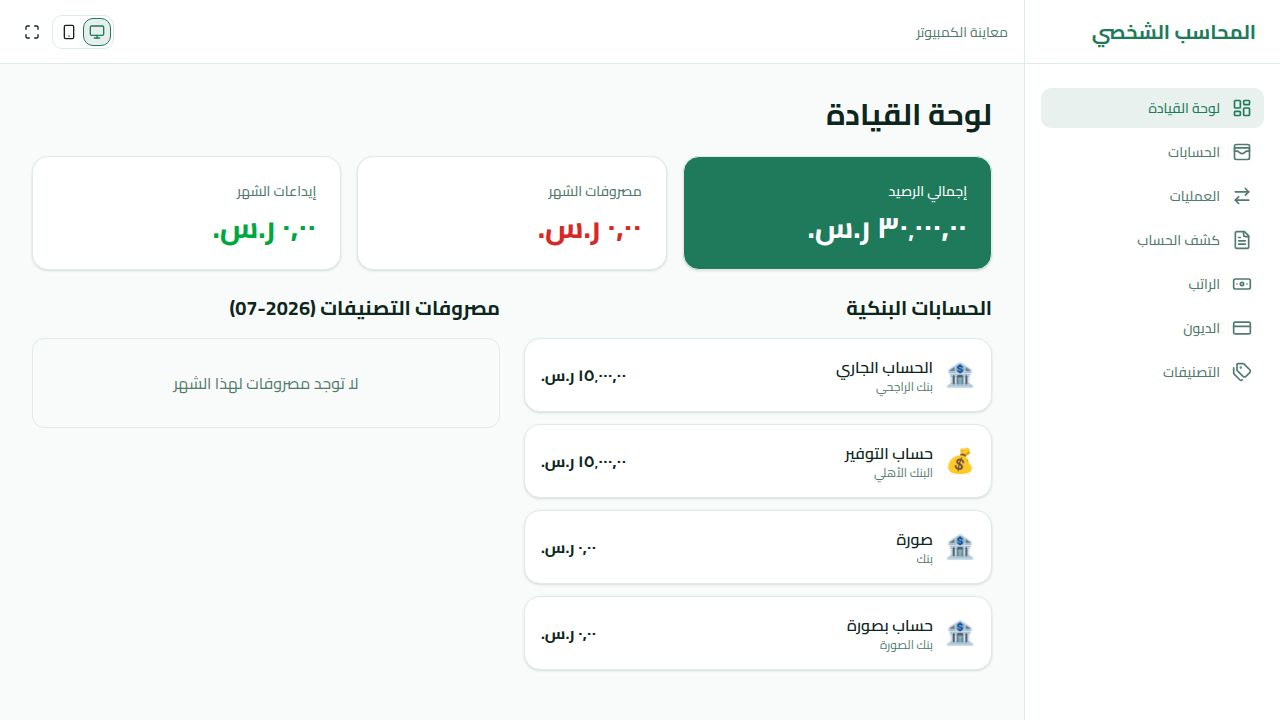
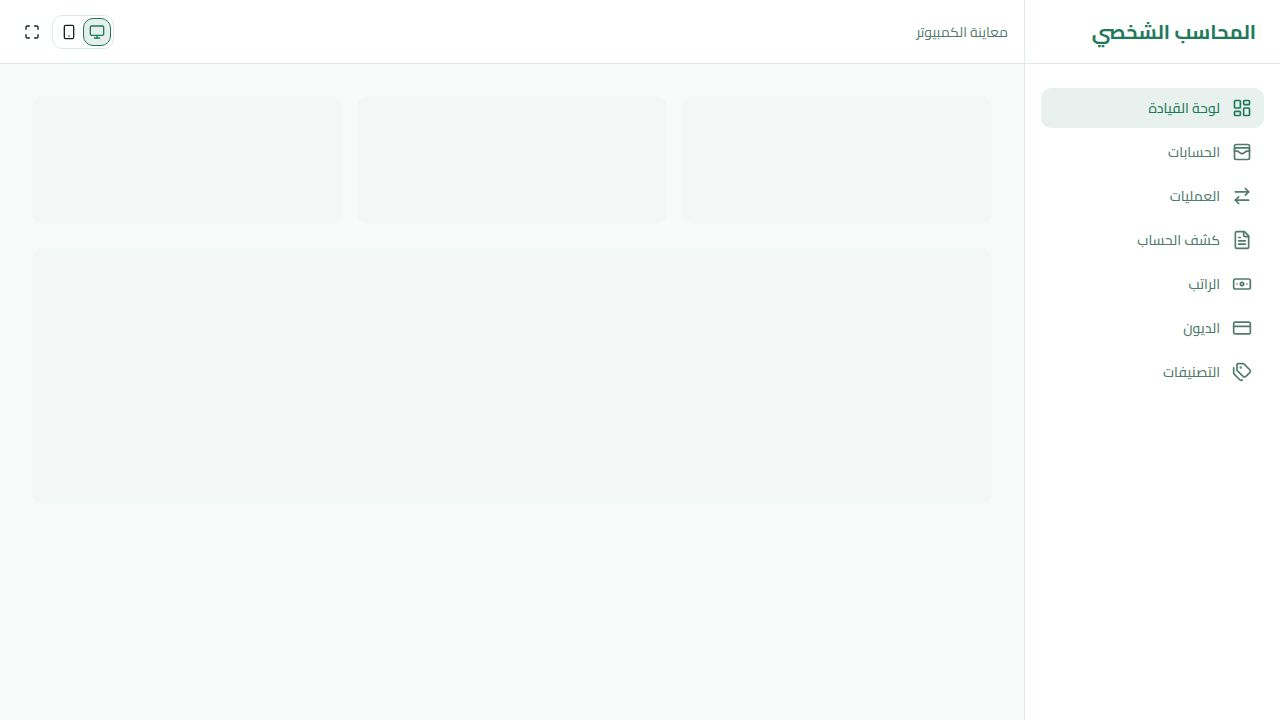
Add ability to assign transfers to specific subcategories
Introduces a new optional `toSubcategoryId` field to the `MoveSubcategoryFunds` API and updates the transaction move logic to support re-tagging transferred funds to a different subcategory in the destination account. Also, filters out zero-balance subcategories from account breakdowns. Includes a guard for the root `package.json` to prevent it from being overwritten by artifact configurations.

Replit-Commit-Author: Agent
Replit-Commit-Session-Id: 5a4efc87-1ddf-483c-b9f9-13ae1d215cd8
Replit-Commit-Checkpoint-Type: full_checkpoint
Replit-Commit-Event-Id: 9575431a-17fe-44cb-ae4b-7024b2cec024
Replit-Commit-Screenshot-Url: https://storage.googleapis.com/screenshot-production-us-central1/fc0cddd7-b1d6-4240-8798-7869c10aa3e8/5a4efc87-1ddf-483c-b9f9-13ae1d215cd8/UZ3GicT
Replit-Helium-Checkpoint-Created: true

diff --git a/artifacts/accounting-app/src/pages/account-detail.tsx b/artifacts/accounting-app/src/pages/account-detail.tsx
@@ -2,6 +2,7 @@ import { Link } from "wouter";
 import {
   useGetAccountBreakdown,
   useListAccounts,
+  useListCategories,
   useMoveSubcategoryFunds,
   getListAccountsQueryKey,
   getGetDashboardSummaryQueryKey,
@@ -31,19 +32,36 @@ export default function AccountDetail({ params }: { params: { id: string } }) {
     }
   );
   const { data: accounts } = useListAccounts();
+  const { data: allCategories } = useListCategories();
   const moveFunds = useMoveSubcategoryFunds();
   const queryClient = useQueryClient();
   const { toast } = useToast();
+
+  const subcategoryOptions = (allCategories ?? []).flatMap((c) =>
+    (c.subcategories ?? []).map((s) => ({
+      id: s.id,
+      label: `${c.emoji} ${c.name} › ${s.emoji} ${s.name}`,
+    })),
+  );
 
   const handleMoveSubcategory = (
     subcategoryId: number,
     target: number,
     amount: number | undefined,
+    toSubcategoryId: number | undefined,
     onDone?: () => void,
   ) => {
     if (isNaN(target) || target === accountId) return;
     moveFunds.mutate(
-      { data: { subcategoryId, fromAccountId: accountId, toAccountId: target, ...(amount != null ? { amount } : {}) } },
+      {
+        data: {
+          subcategoryId,
+          fromAccountId: accountId,
+          toAccountId: target,
+          ...(toSubcategoryId != null ? { toSubcategoryId } : {}),
+          ...(amount != null ? { amount } : {}),
+        },
+      },
       {
         onSuccess: (result) => {
           if (result.moved === 0) {
@@ -163,8 +181,11 @@ export default function AccountDetail({ params }: { params: { id: string } }) {
                         <TransferPopover
                           sub={sub}
                           accounts={(accounts ?? []).filter((a) => a.id !== accountId)}
+                          subcategoryOptions={subcategoryOptions}
                           isPending={moveFunds.isPending}
-                          onTransfer={(target, amount, onDone) => handleMoveSubcategory(sub.id, target, amount, onDone)}
+                          onTransfer={(target, amount, toSubcategoryId, onDone) =>
+                            handleMoveSubcategory(sub.id, target, amount, toSubcategoryId, onDone)
+                          }
                         />
                       </div>
                     ))}
@@ -182,18 +203,28 @@ export default function AccountDetail({ params }: { params: { id: string } }) {
 interface TransferPopoverProps {
   sub: { id: number; name: string; net: number };
   accounts: { id: number; name: string }[];
+  subcategoryOptions: { id: number; label: string }[];
   isPending: boolean;
-  onTransfer: (target: number, amount: number | undefined, onDone: () => void) => void;
+  onTransfer: (
+    target: number,
+    amount: number | undefined,
+    toSubcategoryId: number | undefined,
+    onDone: () => void,
+  ) => void;
 }
 
-function TransferPopover({ sub, accounts, isPending, onTransfer }: TransferPopoverProps) {
+const KEEP_SAME = "same";
+
+function TransferPopover({ sub, accounts, subcategoryOptions, isPending, onTransfer }: TransferPopoverProps) {
   const [open, setOpen] = useState(false);
   const [target, setTarget] = useState("");
+  const [toSub, setToSub] = useState(KEEP_SAME);
   const [amount, setAmount] = useState("");
   const max = Math.max(sub.net, 0);
 
   const reset = () => {
     setTarget("");
+    setToSub(KEEP_SAME);
     setAmount("");
   };
 
@@ -213,7 +244,8 @@ function TransferPopover({ sub, accounts, isPending, onTransfer }: TransferPopov
   const submit = () => {
     if (!canSubmit) return;
     const full = parsedAmount >= max - 0.0001;
-    onTransfer(parseInt(target), full ? undefined : parsedAmount, () => handleOpenChange(false));
+    const toSubcategoryId = toSub === KEEP_SAME ? undefined : parseInt(toSub);
+    onTransfer(parseInt(target), full ? undefined : parsedAmount, toSubcategoryId, () => handleOpenChange(false));
   };
 
   return (
@@ -239,6 +271,21 @@ function TransferPopover({ sub, accounts, isPending, onTransfer }: TransferPopov
             <SelectContent position="popper" side="bottom" avoidCollisions={false}>
               {accounts.map((acc) => (
                 <SelectItem key={acc.id} value={String(acc.id)}>{acc.name}</SelectItem>
+              ))}
+            </SelectContent>
+          </Select>
+        </div>
+
+        <div className="space-y-1.5">
+          <Label className="text-xs">التصنيف الوجهة</Label>
+          <Select value={toSub} onValueChange={setToSub}>
+            <SelectTrigger className="h-9 text-xs">
+              <SelectValue placeholder="نفس التصنيف" />
+            </SelectTrigger>
+            <SelectContent position="popper" side="bottom" avoidCollisions={false} className="max-h-56">
+              <SelectItem value={KEEP_SAME}>نفس التصنيف</SelectItem>
+              {subcategoryOptions.map((opt) => (
+                <SelectItem key={opt.id} value={String(opt.id)}>{opt.label}</SelectItem>
               ))}
             </SelectContent>
           </Select>

diff --git a/artifacts/api-server/src/routes/transactions.ts b/artifacts/api-server/src/routes/transactions.ts
@@ -129,7 +129,7 @@ router.post("/transactions/move", async (req, res): Promise<void> => {
     res.status(400).json({ error: parsed.error.message });
     return;
   }
-  const { subcategoryId, fromAccountId, toAccountId, amount } = parsed.data;
+  const { subcategoryId, fromAccountId, toAccountId, toSubcategoryId, amount } = parsed.data;
 
   if (fromAccountId === toAccountId) {
     res.status(400).json({ error: "الحساب المصدر والوجهة متطابقان" });
@@ -141,6 +141,18 @@ router.post("/transactions/move", async (req, res): Promise<void> => {
     res.status(404).json({ error: "التصنيف الفرعي غير موجود" });
     return;
   }
+
+  // Optional destination subcategory. When provided, the moved funds are
+  // re-tagged to it in the target account; when omitted they keep their
+  // original subcategory.
+  if (toSubcategoryId != null) {
+    const [targetSub] = await db.select().from(subcategoriesTable).where(eq(subcategoriesTable.id, toSubcategoryId));
+    if (!targetSub) {
+      res.status(404).json({ error: "التصنيف الفرعي الوجهة غير موجود" });
+      return;
+    }
+  }
+  const destSubcategoryId = toSubcategoryId ?? subcategoryId;
   const [fromAccount] = await db.select().from(accountsTable).where(eq(accountsTable.id, fromAccountId));
   const [toAccount] = await db.select().from(accountsTable).where(eq(accountsTable.id, toAccountId));
   if (!fromAccount || !toAccount) {
@@ -185,7 +197,7 @@ router.post("/transactions/move", async (req, res): Promise<void> => {
     if (requested == null || requested >= available) {
       const moved = await tx
         .update(transactionsTable)
-        .set({ accountId: toAccountId })
+        .set({ accountId: toAccountId, subcategoryId: destSubcategoryId })
         .where(and(eq(transactionsTable.accountId, fromAccountId), eq(transactionsTable.subcategoryId, subcategoryId)))
         .returning({ id: transactionsTable.id });
       return { moved: moved.length };
@@ -210,7 +222,7 @@ router.post("/transactions/move", async (req, res): Promise<void> => {
       amount: value,
       date: today,
       accountId: toAccountId,
-      subcategoryId,
+      subcategoryId: destSubcategoryId,
       notes: `تحويل من ${fromAccount.name}`,
     });
     return { moved: 2 };

diff --git a/artifacts/api-server/src/routes/summary.ts b/artifacts/api-server/src/routes/summary.ts
@@ -285,8 +285,6 @@ router.get("/summary/account-breakdown", async (req, res): Promise<void> => {
         .filter((s) => s.categoryId === cat.id && aggMap.has(s.id))
         .map((s) => {
           const a = aggMap.get(s.id) ?? { received: 0, spent: 0 };
-          totalReceived += a.received;
-          totalSpent += a.spent;
           return {
             id: s.id,
             name: s.name,
@@ -295,7 +293,14 @@ router.get("/summary/account-breakdown", async (req, res): Promise<void> => {
             spent: a.spent,
             net: a.received - a.spent,
           };
-        });
+        })
+        // Hide subcategories whose remaining balance is zero (e.g. fully spent
+        // or fully transferred out), so they no longer clutter the account.
+        .filter((s) => Math.abs(s.net) > 0.005);
+      for (const s of catSubs) {
+        totalReceived += s.received;
+        totalSpent += s.spent;
+      }
       return {
         id: cat.id,
         name: cat.name,
@@ -305,7 +310,7 @@ router.get("/summary/account-breakdown", async (req, res): Promise<void> => {
     })
     .filter((c) => c.subcategories.length > 0);
 
-  if (uncategorized.received > 0.0001 || uncategorized.spent > 0.0001) {
+  if (Math.abs(uncategorized.received - uncategorized.spent) > 0.005) {
     totalReceived += uncategorized.received;
     totalSpent += uncategorized.spent;
     categories.push({

diff --git a/.agents/memory/root-package-json-guard.md b/.agents/memory/root-package-json-guard.md
@@ -1,0 +1,14 @@
+---
+name: Root package.json guard
+description: The workspace root package.json and each artifact's package.json must not get swapped/clobbered.
+---
+
+# Root vs artifact package.json
+
+The repo root `package.json` is the pnpm workspace orchestration manifest: `name: "workspace"`, holds only root scripts (`build`, `typecheck`, `typecheck:libs`, `preinstall`) and shared dev tooling (prettier, typescript). Each artifact keeps its OWN `package.json` (e.g. `artifacts/accounting-app/package.json`, `name: "@workspace/accounting-app"`).
+
+**Symptom of corruption:** root `package.json` has `name: "@workspace/accounting-app"` and an artifact's deps, while `artifacts/accounting-app/package.json` is deleted (git `D`). This breaks workspace topology, `pnpm run typecheck` runs the wrong single project, and deploy/build behave wrongly.
+
+**Why:** something (an errant edit/tool) overwrote root with the artifact manifest. Architect review caught it via git diff.
+
+**How to apply:** recover both from git HEAD (`git show HEAD:package.json`, `git show HEAD:artifacts/<name>/package.json`) and write them back, then `pnpm install` + root `pnpm run typecheck` (should show "Scope: N of M workspace projects", not a single project). Always sanity-check `git --no-optional-locks status --short` for unexpected `package.json` M/D after big changes.

diff --git a/.agents/memory/MEMORY.md b/.agents/memory/MEMORY.md
@@ -5,3 +5,4 @@
 - [Inline base64 images & body limits](inline-base64-images.md) — images stored as inline base64 data URLs; needs raised express body limit (10mb) + onError on forms or saves fail silently (413).
 - [Neon DATABASE_URL precedence](neon-database-url-precedence.md) — app+drizzle use NEON_DATABASE_URL ?? DATABASE_URL (built-in is runtime-managed/unremovable); migrate DBs from bash (sandbox lacks new secrets).
 - [Replit autoscale deploy health](replit-deploy-health.md) — promote gates on /api/healthz not base /api; "healthcheck /api 500" is noise; a failed build often just predates the fix — check build time vs git log.
+- [Root package.json guard](root-package-json-guard.md) — root package.json must stay the "workspace" orchestration manifest; never let it get overwritten with an artifact's config (breaks pnpm topology & masks typecheck).